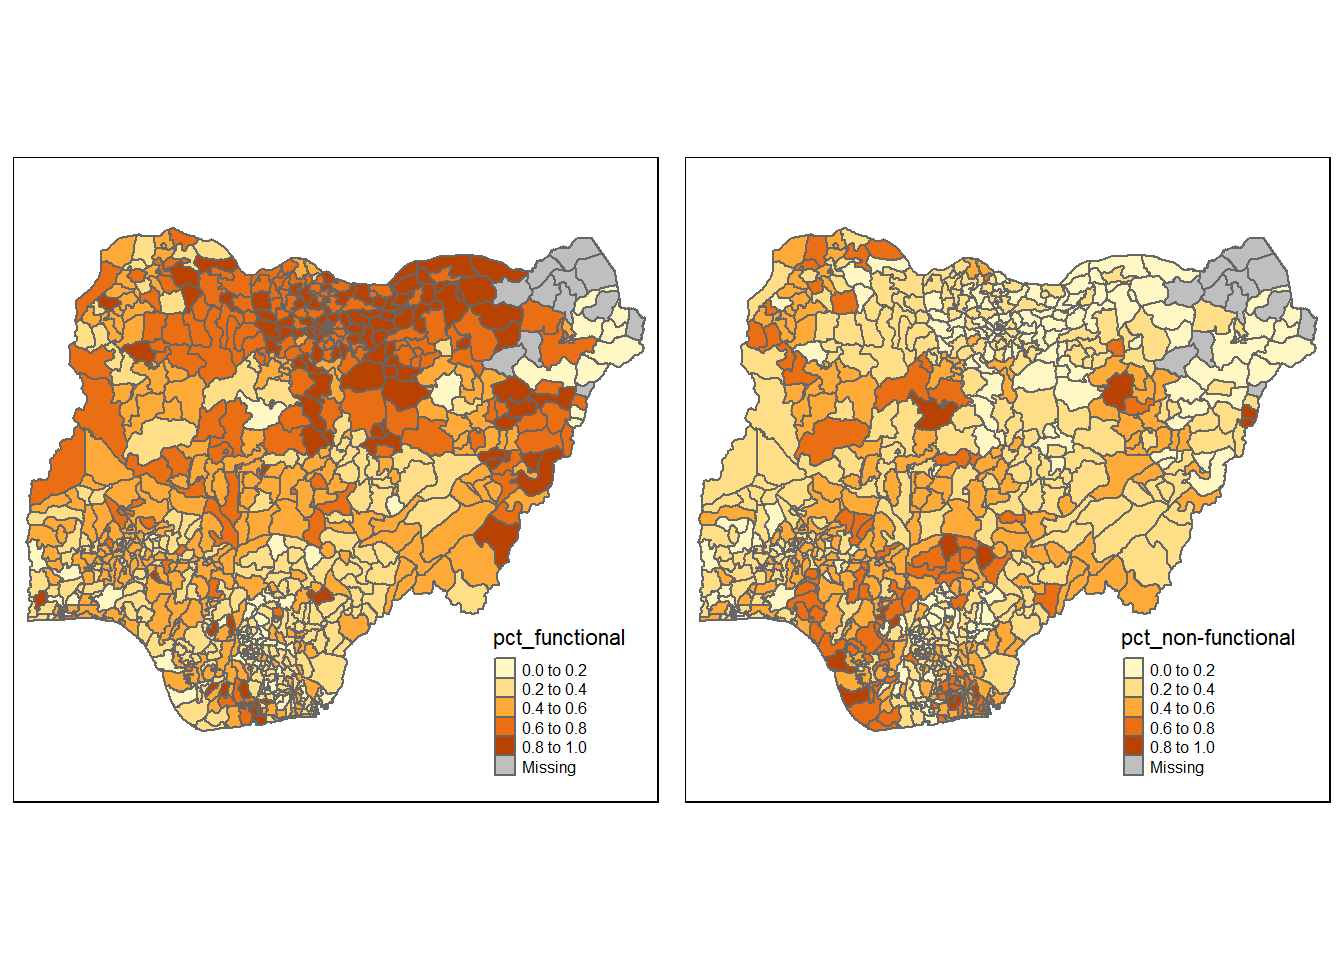
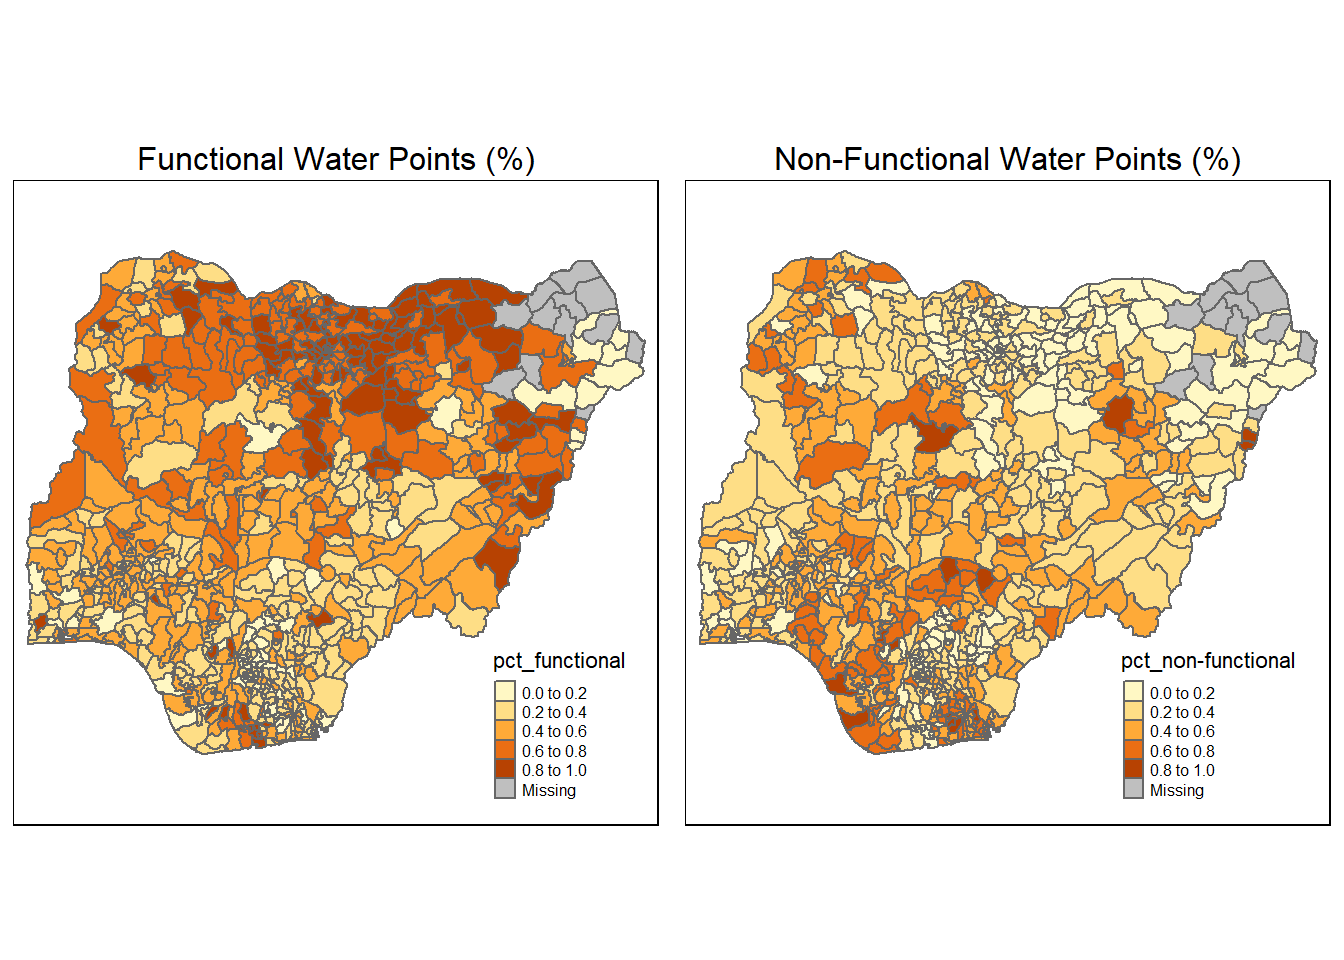
html

diff --git a/_site/Take Home Exercise/Take Home Exercise 1/Take_Home_Ex01test.html b/_site/Take Home Exercise/Take Home Exercise 1/Take_Home_Ex01test.html
@@ -543,13 +543,19 @@ Geodetic CRS:  WGS 84
 <h2 class="anchored" data-anchor-id="visualizing-spatial-distribution-of-water-points-1">10 Visualizing Spatial Distribution of Water Points %</h2>
 <div class="cell">
 <div class="sourceCode cell-code" id="cb28"><pre class="sourceCode r code-with-copy"><code class="sourceCode r"><span id="cb28-1"><a href="#cb28-1" aria-hidden="true" tabindex="-1"></a>pct_functional <span class="ot">&lt;-</span> <span class="fu">qtm</span>(nigeria_1, <span class="st">"pct_functional"</span>)<span class="sc">+</span></span>
-<span id="cb28-2"><a href="#cb28-2" aria-hidden="true" tabindex="-1"></a>         <span class="fu">tm_layout</span>(<span class="at">legend.height=</span><span class="fl">0.25</span>,</span>
-<span id="cb28-3"><a href="#cb28-3" aria-hidden="true" tabindex="-1"></a>         <span class="at">legend.width=</span><span class="fl">0.35</span>)</span>
-<span id="cb28-4"><a href="#cb28-4" aria-hidden="true" tabindex="-1"></a>pct_non <span class="ot">&lt;-</span> <span class="fu">qtm</span>(nigeria_1,<span class="st">"pct_non-functional"</span>)<span class="sc">+</span></span>
-<span id="cb28-5"><a href="#cb28-5" aria-hidden="true" tabindex="-1"></a>                 <span class="fu">tm_layout</span>(<span class="at">legend.height=</span><span class="fl">0.25</span>,</span>
+<span id="cb28-2"><a href="#cb28-2" aria-hidden="true" tabindex="-1"></a>         <span class="fu">tm_layout</span>(<span class="at">main.title=</span><span class="st">"Functional Water Points (%)"</span>,</span>
+<span id="cb28-3"><a href="#cb28-3" aria-hidden="true" tabindex="-1"></a>                           <span class="at">main.title.size =</span> <span class="dv">1</span>,</span>
+<span id="cb28-4"><a href="#cb28-4" aria-hidden="true" tabindex="-1"></a>                           <span class="at">main.title.position =</span> <span class="st">"centre"</span>,</span>
+<span id="cb28-5"><a href="#cb28-5" aria-hidden="true" tabindex="-1"></a>                 <span class="at">legend.height=</span><span class="fl">0.25</span>,</span>
 <span id="cb28-6"><a href="#cb28-6" aria-hidden="true" tabindex="-1"></a>                 <span class="at">legend.width=</span><span class="fl">0.35</span>)</span>
-<span id="cb28-7"><a href="#cb28-7" aria-hidden="true" tabindex="-1"></a></span>
-<span id="cb28-8"><a href="#cb28-8" aria-hidden="true" tabindex="-1"></a><span class="fu">tmap_arrange</span>(pct_functional,pct_non,<span class="at">asp=</span><span class="dv">1</span>, <span class="at">ncol=</span><span class="dv">2</span>)</span></code><button title="Copy to Clipboard" class="code-copy-button"><i class="bi"></i></button></pre></div>
+<span id="cb28-7"><a href="#cb28-7" aria-hidden="true" tabindex="-1"></a>pct_non <span class="ot">&lt;-</span> <span class="fu">qtm</span>(nigeria_1,<span class="st">"pct_non-functional"</span>)<span class="sc">+</span></span>
+<span id="cb28-8"><a href="#cb28-8" aria-hidden="true" tabindex="-1"></a>                 <span class="fu">tm_layout</span>(<span class="at">main.title=</span><span class="st">"Non-Functional Water Points (%)"</span>,</span>
+<span id="cb28-9"><a href="#cb28-9" aria-hidden="true" tabindex="-1"></a>                           <span class="at">main.title.size =</span> <span class="dv">1</span>,</span>
+<span id="cb28-10"><a href="#cb28-10" aria-hidden="true" tabindex="-1"></a>                           <span class="at">main.title.position =</span> <span class="st">"centre"</span>,</span>
+<span id="cb28-11"><a href="#cb28-11" aria-hidden="true" tabindex="-1"></a>                 <span class="at">legend.height=</span><span class="fl">0.25</span>,</span>
+<span id="cb28-12"><a href="#cb28-12" aria-hidden="true" tabindex="-1"></a>                 <span class="at">legend.width=</span><span class="fl">0.35</span>)</span>
+<span id="cb28-13"><a href="#cb28-13" aria-hidden="true" tabindex="-1"></a></span>
+<span id="cb28-14"><a href="#cb28-14" aria-hidden="true" tabindex="-1"></a><span class="fu">tmap_arrange</span>(pct_functional,pct_non,<span class="at">asp=</span><span class="dv">1</span>, <span class="at">ncol=</span><span class="dv">2</span>)</span></code><button title="Copy to Clipboard" class="code-copy-button"><i class="bi"></i></button></pre></div>
 <div class="cell-output-display">
 <p><img src="Take_Home_Ex01test_files/figure-html/unnamed-chunk-17-1.png" class="img-fluid" width="672"></p>
 </div>
@@ -728,7 +734,8 @@ Link number distribution:
 <div class="cell">
 <div class="sourceCode cell-code" id="cb43"><pre class="sourceCode r code-with-copy"><code class="sourceCode r"><span id="cb43-1"><a href="#cb43-1" aria-hidden="true" tabindex="-1"></a><span class="fu">plot</span>(nigeria<span class="sc">$</span>geometry, <span class="at">border=</span><span class="st">"lightgrey"</span>)</span>
 <span id="cb43-2"><a href="#cb43-2" aria-hidden="true" tabindex="-1"></a><span class="fu">plot</span>(wm_fixed, coords, <span class="at">add=</span><span class="cn">TRUE</span>)</span>
-<span id="cb43-3"><a href="#cb43-3" aria-hidden="true" tabindex="-1"></a><span class="fu">plot</span>(k1, coords, <span class="at">add=</span><span class="cn">TRUE</span>, <span class="at">col=</span><span class="st">"red"</span>, <span class="at">length=</span><span class="fl">0.08</span>)</span></code><button title="Copy to Clipboard" class="code-copy-button"><i class="bi"></i></button></pre></div>
+<span id="cb43-3"><a href="#cb43-3" aria-hidden="true" tabindex="-1"></a><span class="fu">plot</span>(k1, coords, <span class="at">add=</span><span class="cn">TRUE</span>, <span class="at">col=</span><span class="st">"red"</span>, <span class="at">length=</span><span class="fl">0.08</span>)</span>
+<span id="cb43-4"><a href="#cb43-4" aria-hidden="true" tabindex="-1"></a><span class="fu">title</span>(<span class="at">main =</span> <span class="st">"Fixed Distance Based Neighbors Plot"</span>)</span></code><button title="Copy to Clipboard" class="code-copy-button"><i class="bi"></i></button></pre></div>
 <div class="cell-output-display">
 <p><img src="Take_Home_Ex01test_files/figure-html/unnamed-chunk-25-1.png" class="img-fluid" width="672"></p>
 </div>
@@ -750,7 +757,8 @@ Non-symmetric neighbours list</code></pre>
 <p>Plot of 8 k-nearest neighbors weight matrix is displayed below.</p>
 <div class="cell">
 <div class="sourceCode cell-code" id="cb46"><pre class="sourceCode r code-with-copy"><code class="sourceCode r"><span id="cb46-1"><a href="#cb46-1" aria-hidden="true" tabindex="-1"></a><span class="fu">plot</span>(nigeria<span class="sc">$</span>geometry, <span class="at">border=</span><span class="st">"lightgrey"</span>)</span>
-<span id="cb46-2"><a href="#cb46-2" aria-hidden="true" tabindex="-1"></a><span class="fu">plot</span>(knn8, coords, <span class="at">pch =</span> <span class="dv">19</span>, <span class="at">cex =</span> <span class="fl">0.6</span>, <span class="at">add =</span> <span class="cn">TRUE</span>, <span class="at">col =</span> <span class="st">"red"</span>)</span></code><button title="Copy to Clipboard" class="code-copy-button"><i class="bi"></i></button></pre></div>
+<span id="cb46-2"><a href="#cb46-2" aria-hidden="true" tabindex="-1"></a><span class="fu">plot</span>(knn8, coords, <span class="at">pch =</span> <span class="dv">19</span>, <span class="at">cex =</span> <span class="fl">0.6</span>, <span class="at">add =</span> <span class="cn">TRUE</span>, <span class="at">col =</span> <span class="st">"red"</span>)</span>
+<span id="cb46-3"><a href="#cb46-3" aria-hidden="true" tabindex="-1"></a><span class="fu">title</span>(<span class="at">main =</span> <span class="st">"Adaptive Distance Based Neighbors Plot"</span>)</span></code><button title="Copy to Clipboard" class="code-copy-button"><i class="bi"></i></button></pre></div>
 <div class="cell-output-display">
 <p><img src="Take_Home_Ex01test_files/figure-html/unnamed-chunk-27-1.png" class="img-fluid" width="672"></p>
 </div>

diff --git a/_site/In-Class_Exercise/In-class_Ex02/In-class_ex02.html b/_site/In-Class_Exercise/In-class_Ex02/In-class_ex02.html
@@ -98,10 +98,10 @@ code span.wa { color: #60a0b0; font-weight: bold; font-style: italic; } /* Warni
 <script src="../../site_libs/quarto-html/tippy.umd.min.js"></script>
 <script src="../../site_libs/quarto-html/anchor.min.js"></script>
 <link href="../../site_libs/quarto-html/tippy.css" rel="stylesheet">
-<link href="../../site_libs/quarto-html/quarto-syntax-highlighting-dark.css" rel="stylesheet" id="quarto-text-highlighting-styles">
+<link href="../../site_libs/quarto-html/quarto-syntax-highlighting.css" rel="stylesheet" id="quarto-text-highlighting-styles">
 <script src="../../site_libs/bootstrap/bootstrap.min.js"></script>
 <link href="../../site_libs/bootstrap/bootstrap-icons.css" rel="stylesheet">
-<link href="../../site_libs/bootstrap/bootstrap.min.css" rel="stylesheet" id="quarto-bootstrap" data-mode="dark">
+<link href="../../site_libs/bootstrap/bootstrap.min.css" rel="stylesheet" id="quarto-bootstrap" data-mode="light">
 <script id="quarto-search-options" type="application/json">{
   "location": "navbar",
   "copy-button": false,
@@ -169,6 +169,18 @@ code span.wa { color: #60a0b0; font-weight: bold; font-style: italic; } /* Warni
         <li>
     <a class="dropdown-item" href="../../In-Class_Exercise/In-class_Ex02/In-class_ex02.html">
  <span class="dropdown-text">In-class Exercise 2</span></a>
+  </li>  
+        <li class="dropdown-header">In-class Exercise 3</li>
+    </ul>
+  </li>
+  <li class="nav-item dropdown ">
+    <a class="nav-link dropdown-toggle" href="#" id="nav-menu-take-home-exercises" role="button" data-bs-toggle="dropdown" aria-expanded="false">
+ <span class="menu-text">Take Home Exercises</span>
+    </a>
+    <ul class="dropdown-menu" aria-labelledby="nav-menu-take-home-exercises">    
+        <li>
+    <a class="dropdown-item" href="../../Take Home Exercise/Take Home Exercise 1/Take_Home_Ex01test.html">
+ <span class="dropdown-text">Take Home Exercise 1</span></a>
   </li>  
     </ul>
   </li>

diff --git a/_site/index.html b/_site/index.html
@@ -35,10 +35,10 @@ ul.task-list li input[type="checkbox"] {
 <script src="site_libs/quarto-html/tippy.umd.min.js"></script>
 <script src="site_libs/quarto-html/anchor.min.js"></script>
 <link href="site_libs/quarto-html/tippy.css" rel="stylesheet">
-<link href="site_libs/quarto-html/quarto-syntax-highlighting-dark.css" rel="stylesheet" id="quarto-text-highlighting-styles">
+<link href="site_libs/quarto-html/quarto-syntax-highlighting.css" rel="stylesheet" id="quarto-text-highlighting-styles">
 <script src="site_libs/bootstrap/bootstrap.min.js"></script>
 <link href="site_libs/bootstrap/bootstrap-icons.css" rel="stylesheet">
-<link href="site_libs/bootstrap/bootstrap.min.css" rel="stylesheet" id="quarto-bootstrap" data-mode="dark">
+<link href="site_libs/bootstrap/bootstrap.min.css" rel="stylesheet" id="quarto-bootstrap" data-mode="light">
 <script id="quarto-search-options" type="application/json">{
   "location": "navbar",
   "copy-button": false,
@@ -106,6 +106,17 @@ ul.task-list li input[type="checkbox"] {
         <li>
     <a class="dropdown-item" href="./In-Class_Exercise/In-class_Ex02/In-class_ex02.html">
  <span class="dropdown-text">In-class Exercise 2</span></a>
+  </li>  
+    </ul>
+  </li>
+  <li class="nav-item dropdown ">
+    <a class="nav-link dropdown-toggle" href="#" id="nav-menu-take-home-exercises" role="button" data-bs-toggle="dropdown" aria-expanded="false">
+ <span class="menu-text">Take Home Exercises</span>
+    </a>
+    <ul class="dropdown-menu" aria-labelledby="nav-menu-take-home-exercises">    
+        <li>
+    <a class="dropdown-item" href="./Take Home Exercise/Take Home Exercise 1/Take_Home_Ex01test.html">
+ <span class="dropdown-text">Take Home Exercise 1</span></a>
   </li>  
     </ul>
   </li>
